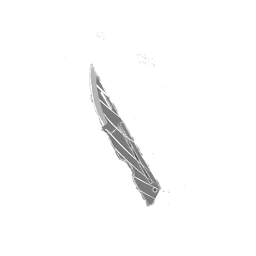
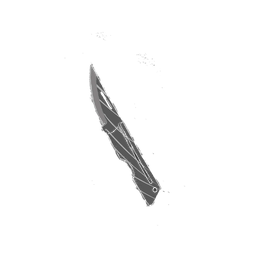
fix: 降低小刀道具图标亮度

Changed region(s): [[0.3438, 0.25, 0.625, 0.8125]]

diff --git a/更新日志.md b/更新日志.md
@@ -167,6 +167,7 @@
 - 船航行画面点击任意处直接切换到有船夫的靠岸画面，不再经过空无一人的码头场景。
 - 标题页改用游戏封面：完整显示封面图，去掉中文标题覆盖，菜单移到右侧偏下，并加入半透明面板与模糊背景填充。
 - 新增旅馆正门「影子客人」完整可玩版：门灯照明、伞架/信箱旗/门垫三段影子、明信片提示、铜线对齐、开门与进入结算。
+- 降低小刀道具图标亮度，保留透明边缘与原有斜放构图。
 - 参考 v0.3 文档重写序章，逐步收敛到“上岸与入门”四个动作。
 - 序章 Word 稿更新到 v0.8：床上醒来 → 开窗看海 → 找硬币付船费 → 时间锁进旅馆。
 - 第一章从“101 谜题优先稿”调整为“113 服务叙事”。
